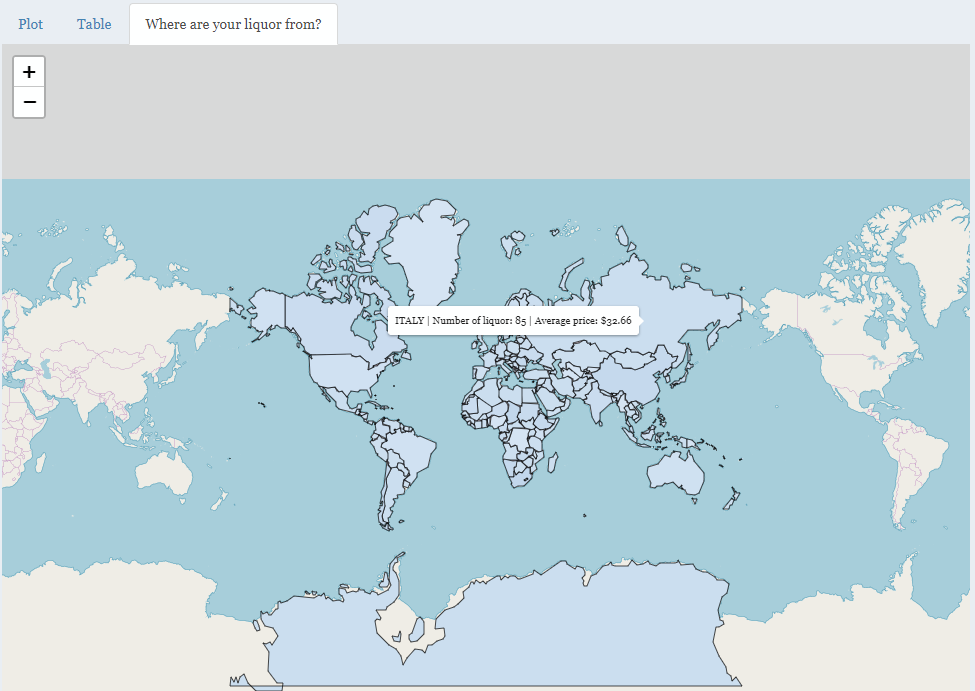
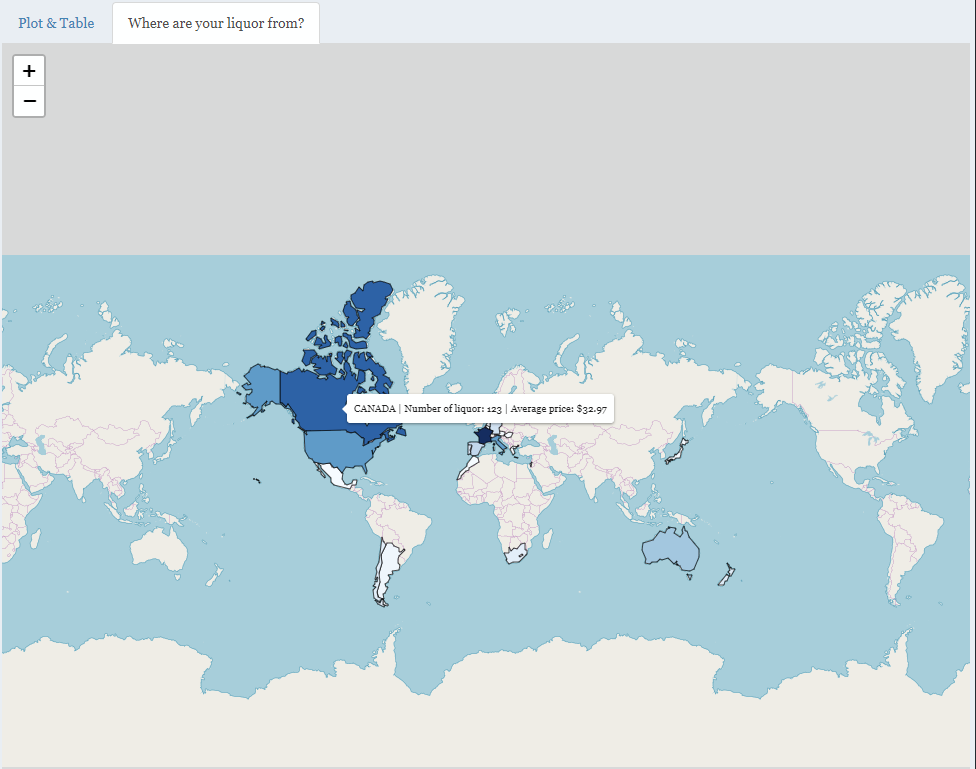
Version 2 (fix leaflet)

diff --git a/README.md b/README.md
@@ -202,5 +202,7 @@ References
 -   [world.geo.json](https://github.com/johan/world.geo.json)
 -   [Leaflet for R:
     Colors](https://rstudio.github.io/leaflet/colors.html)
+-   [Leaflet for R:
+    Choropleths](https://rstudio.github.io/leaflet/choropleths.html)
 -   [Create colorful graphs in R with RColorBrewer and
     Plotly](https://moderndata.plot.ly/create-colorful-graphs-in-r-with-rcolorbrewer-and-plotly/)
